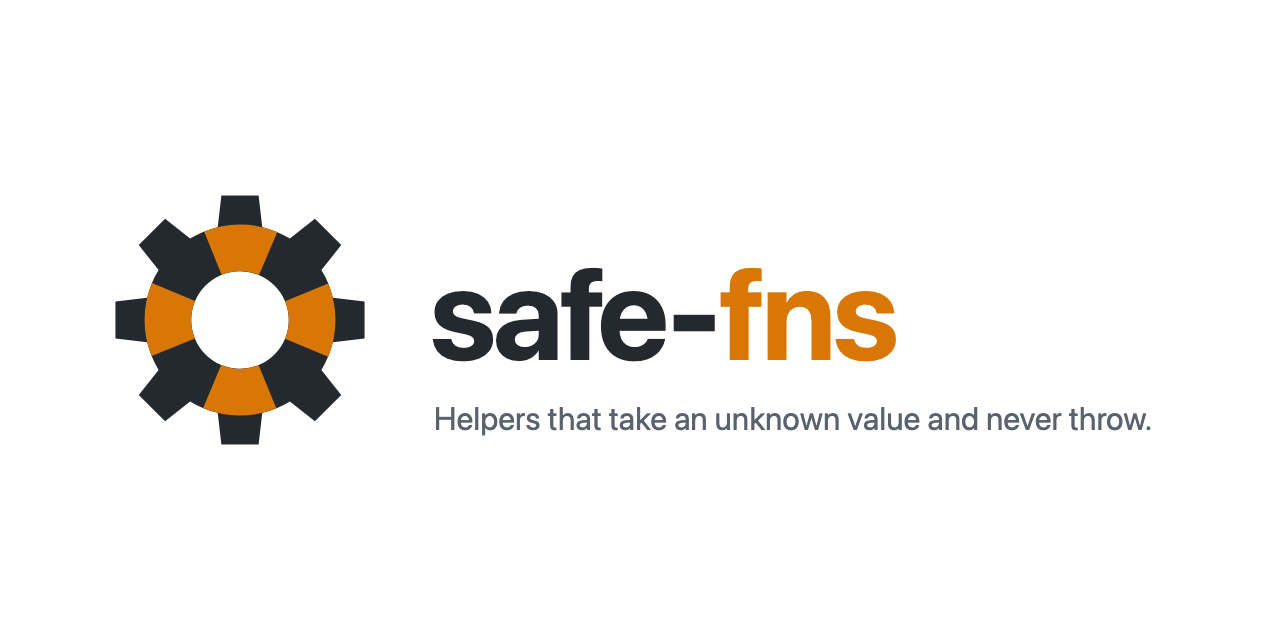
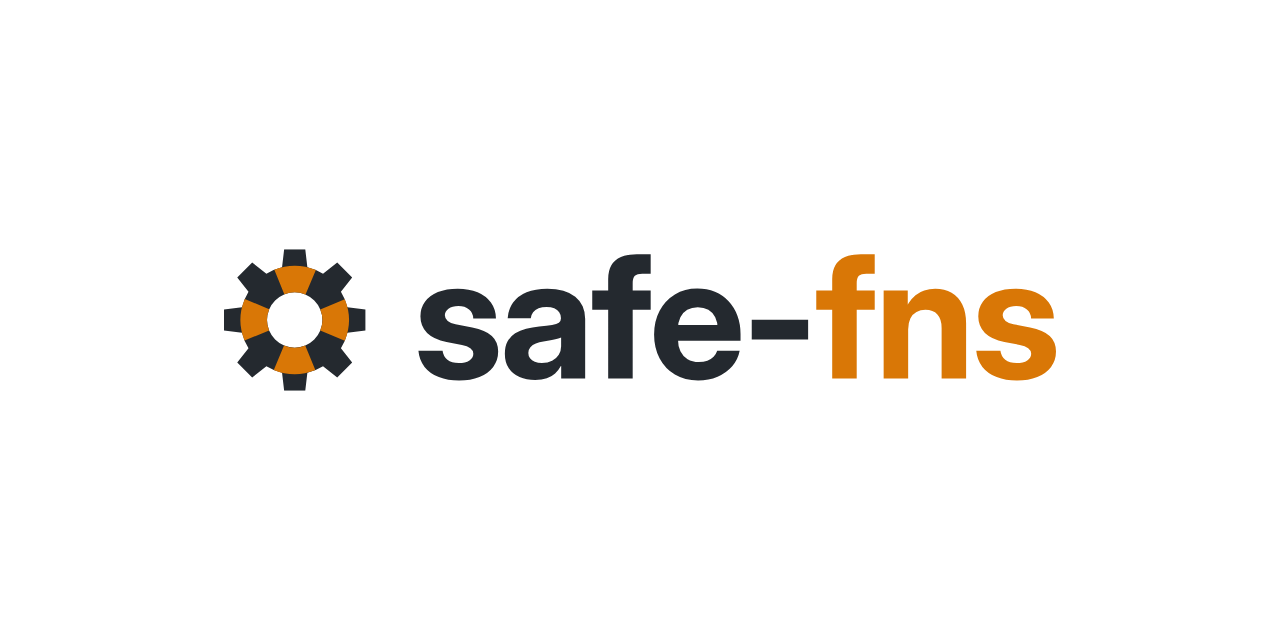
docs(brand): 🎨 add the inter wordmark lockup and rebuild the social preview
- assets/logo-wordmark-light.svg and assets/logo-wordmark-dark.svg: the mark plus safe-fns in Inter Bold, outlined to paths, with fns in amber
- assets/social-preview.png: rebuilt from the lockup with no tagline and no system font; its source is assets/social-preview.svg
- AGENTS.md: the assets/ entry lists the lockup and its font

Changed region(s): [[0.3125, 0.375, 0.8438, 0.5938], [0.0625, 0.2812, 0.2812, 0.7188], [0.3438, 0.625, 0.9062, 0.6875]]

diff --git a/AGENTS.md b/AGENTS.md
@@ -48,7 +48,10 @@ These bind every exported function. A change that breaks one is a bug, even if i
 - `.github/ISSUE_TEMPLATE/` — YAML issue forms (🐞 bug, ✨ feature, 🤔 semantics question, 🤝 conduct report), each labeled `📥 needs-triage`, plus `config.yml`, which disables blank issues.
 - `.github/PULL_REQUEST_TEMPLATE.md` — summary, `Closes #`, verification, and a checklist.
 - `.github/rulesets/` — the repository rulesets that protect `main` (see [Issues & PRs](#-issues--prs)).
-- `assets/` — the logo (`logo-light.svg`, `logo-dark.svg`), a theme-aware `favicon.svg`, and the 1280×640 `social-preview.png`; outside `files`, so never published.
+- `assets/` — the brand files, outside `files`, so never published.
+  - The mark (`logo-light.svg`, `logo-dark.svg`) and the mark-plus-name lockup (`logo-wordmark-light.svg`, `logo-wordmark-dark.svg`), each cropped tight to its shapes.
+  - The lockup's lettering is Inter Bold, outlined to paths so it renders without the font.
+  - A theme-aware `favicon.svg`, and the 1280×640 `social-preview.png` for the repo's link previews, rendered from `social-preview.svg`.
   - The README loads the logos by absolute `raw.githubusercontent.com` URL, since npm can't resolve repo-relative images.
 - `docs/decisions/` — the design-decision bundle (see [Design decisions](#-design-decisions)).
 - `eslint-rules/` — local ESLint rules, loaded by `eslint.config.ts`.
